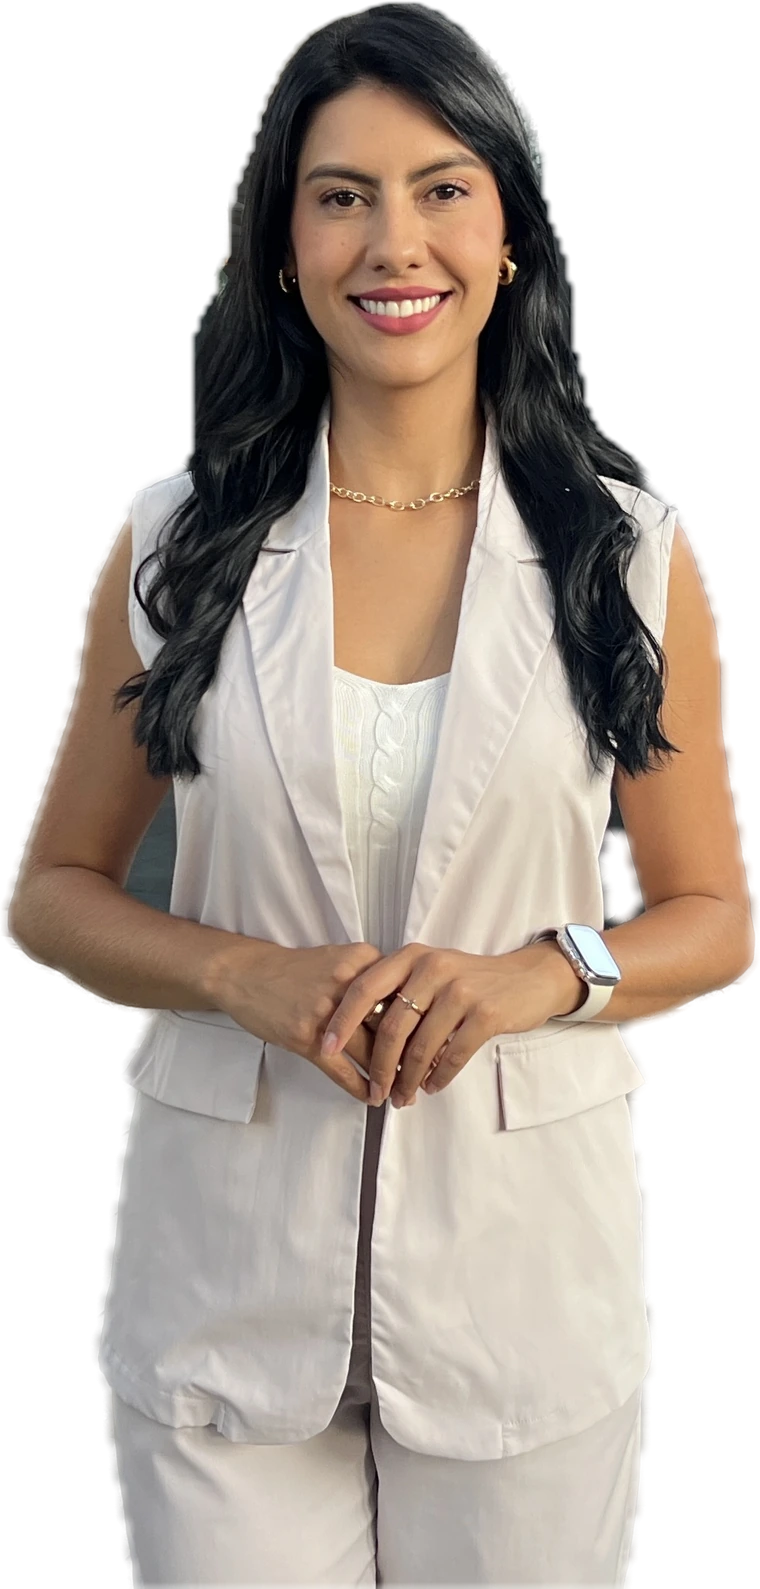
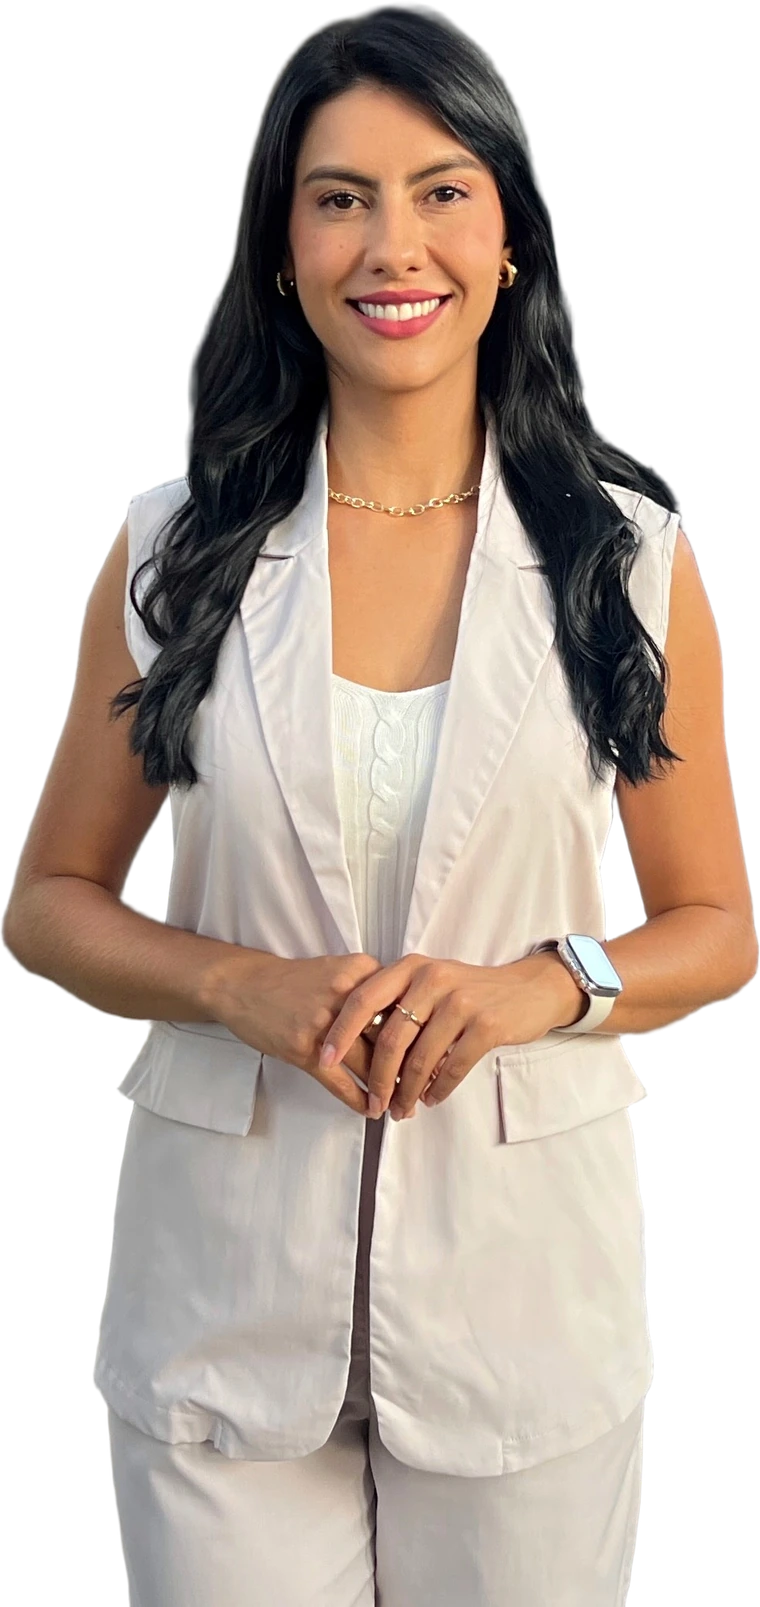
fix(hero): BiRefNet matte on the retouched photo, clean edges
Apple Vision's subject mask left a grey halo round her hair and smeared her
arm edges, and no amount of edge filtering recovered them. Compared on 1:1
crops against Vision's person segmentation and BiRefNet, BiRefNet-portrait
(MIT) gave crisp, clean edges with no halo.

- scripts/hero-matte.py runs BiRefNet-portrait (ONNX) on the photo, then on a
  crop round her so the model's 1024px input goes on her outline. It
  replaces scripts/hero-cutout.swift.
- Source is JP's retouched edit of the same shot (pixel-aligned).
- clean-hero-cutout.py uses the matte as it is; the guided filter and hair
  workarounds for the Vision mask are gone.
- Cut-out and scene rebuilt; geometry constants updated.

diff --git a/src/index.css b/src/index.css
@@ -769,7 +769,8 @@
   }
 
   /* ─── Home hero: her photo, with her name between her and the scene ───
-     Both photographic layers come from one picture (IMG_8146, 4032×2268) via
+     Both photographic layers come from one picture (the retouched edit of
+     IMG_8146, 4032×2268) via scripts/hero-matte.py (BiRefNet) and
      scripts/clean-hero-cutout.py: the scene with her removed and lightly
      blurred, and the cut-out of her. They sit in two `.feed-hero__frame`s with
      identical geometry, so every edge pixel of the cut-out lands on the
@@ -794,10 +795,10 @@
     --feed-name-size: calc(var(--feed-u) * 23);
     --feed-name-top: calc(env(safe-area-inset-top, 0px) + 4.25rem + var(--feed-u) * 0.5);
     --feed-gutter: clamp(1.5rem, 5vw, 4.5rem);
-    --feed-cut-left: 35.169%;
+    --feed-cut-left: 35.342%;
     --feed-cut-top: 8.642%;
-    --feed-cut-width: 24.578%;
-    --feed-face-x: 0.4756;
+    --feed-cut-width: 24.306%;
+    --feed-face-x: 0.4767;
     --feed-head-y: 0.0864;
     position: relative;
     width: 100%;
@@ -1406,10 +1407,10 @@
     /* Phones size the frame from her width (92% of the screen, 330px at most
        so 3x screens stay at her native pixels) but never shorter than 108% of
        the stage, so she always reaches the foot. Her head sits just under the
-       name's baseline, as in the canvas. 2.2886 = 1 / (cut width × 16:9). The
+       name's baseline, as in the canvas. 2.3142 = 1 / (cut width × 16:9). The
        top of the frame can start below the stage top; the nav bar covers it. */
     .feed-hero__frame {
-      --frame-h: max(calc(min(92cqw, 330px) * 2.2886), 108cqh);
+      --frame-h: max(calc(min(92cqw, 330px) * 2.3142), 108cqh);
       top: calc(var(--feed-name-top) + var(--feed-name-size) * 0.53 - var(--feed-head-y) * var(--frame-h));
       left: clamp(
         calc(100cqw - var(--frame-w)),

diff --git a/src/components/Hero.tsx b/src/components/Hero.tsx
@@ -244,19 +244,19 @@ const Hero = () => {
         <div className="feed-hero__frame feed-hero__frame--figure">
           <div className="feed-hero__frame-depth" data-depth="8">
             <picture className="feed-hero__figure">
-              {/* Cut from the 4032×2268 original, where she spans 991×2072 px.
+              {/* Cut from the 4032×2268 photo, where she spans 980×2072 px.
                   WebP only: AVIF compresses alpha lossily and steps the
                   outline. */}
               <source
                 type="image/webp"
-                srcSet="/uploads/gisela-cutout-520.webp 520w, /uploads/gisela-cutout-760.webp 760w, /uploads/gisela-cutout-991.webp 991w"
+                srcSet="/uploads/gisela-cutout-520.webp 520w, /uploads/gisela-cutout-760.webp 760w, /uploads/gisela-cutout-980.webp 980w"
                 sizes={HERO_FIGURE_SIZES}
               />
               <img
                 ref={figureRef}
                 src="/uploads/gisela-cutout-640.png"
                 alt={t('hero.imageAlt')}
-                width="991"
+                width="980"
                 height="2072"
                 loading="eager"
                 decoding="async"

diff --git a/scripts/clean-hero-cutout.py b/scripts/clean-hero-cutout.py
@@ -1,92 +1,36 @@
-"""Build the home hero's two aligned layers from one photo.
+"""Build the home hero's two aligned layers from one photo and its matte.
 
 Usage:
-  swift scripts/hero-cutout.swift <original.jpg> /tmp/cutout-raw.png
-  python3 scripts/clean-hero-cutout.py <original.jpg> /tmp/cutout-raw.png public/uploads
+  <venv>/bin/python scripts/hero-matte.py <photo.jpg> /tmp/hero-matte.png
+  python3 scripts/clean-hero-cutout.py <photo.jpg> /tmp/hero-matte.png public/uploads
+
+Needs Pillow, numpy and scipy.
 
 Writes the cut-out of her (gisela-cutout-*.webp/png) and the scene she stood
 in with her removed and lightly blurred (gisela-scene-*.webp), then prints
 where the cut-out sits inside the photo. The hero stacks the two in the same
 frame, so every edge pixel lands on the background it came from; the printed
-fractions are the `--feed-cut-*` values in src/index.css.
+values are the `--feed-cut-*`, `--feed-face-x` and `--feed-head-y` variables in
+src/index.css, and the cut-out size goes on the <img> in Hero.tsx.
 
-Needs Pillow (with AVIF), numpy and scipy.
-
-The raw Vision mask has three problems on the dark hero:
-1. Its outline is a smooth upscale of a low-resolution mask, so it drifts off
-   the real edge and steps along arms. A guided filter, with the photo as the
-   guide, snaps the alpha to the edges that are actually in the image.
-2. Its interior is not fully opaque, and its soft edge still carries the
-   original background's colour (a light rim against glass). The interior is
-   made solid, and every partly transparent pixel takes its colour from the
-   nearest solid pixel of her, so an edge can only ever fade, never glow or
-   darken. (Solving each edge pixel against an estimated background, the
-   previous approach, tinted the skin and left a dark rim where the estimate
-   was off.)
-3. It counts some strips of light background between hair strands as solid.
-   Near the outline, a pixel is dropped only when it sits in a dark-hair
-   neighbourhood, is lighter than that hair, and the background right beside it
-   is light too; hair highlights next to a dark background stay.
+The matte comes from BiRefNet (scripts/hero-matte.py) and is used as it is.
+The only edge treatment left is colour: a partly transparent pixel still holds
+some of the original background, so it takes the colour of the nearest solid
+pixel of her instead. Over the white name that keeps her hair dark to the tip.
 """
 
 import sys
 
 import numpy as np
 from PIL import Image
-from scipy.ndimage import distance_transform_edt, gaussian_filter, uniform_filter
+from scipy.ndimage import distance_transform_edt, gaussian_filter
 
-EDGE_BAND_PX = 34
-HAIR_LIFT = 0.06
-GUIDE_RADIUS = 5
-GUIDE_EPS = 4e-4
-REFINE_BAND_PX = 14
 WIDTHS = (520, 760)
 SCENE_WIDTHS = (1344, 2016)
 # At the photo's full width; the hero shows it at roughly half that, so this
 # reads as a gentle, lens-like softness rather than a smear.
 SCENE_BLUR_SIGMA = 14
 SCENE_HOLE_MARGIN_PX = 18
-
-
-def luminance(rgb):
-    return 0.2126 * rgb[..., 0] + 0.7152 * rgb[..., 1] + 0.0722 * rgb[..., 2]
-
-
-def box(arr, radius):
-    return uniform_filter(arr, 2 * radius + 1, mode='reflect')
-
-
-def guided_filter(guide, src, radius, eps):
-    mean_i = box(guide, radius)
-    mean_p = box(src, radius)
-    cov_ip = box(guide * src, radius) - mean_i * mean_p
-    var_i = box(guide * guide, radius) - mean_i * mean_i
-    a = cov_ip / (var_i + eps)
-    b = mean_p - a * mean_i
-    return box(a, radius) * guide + box(b, radius)
-
-
-def background_in_hair(colour, alpha, lum):
-    solid = (alpha > 0.5).astype(np.float32)
-    depth = distance_transform_edt(solid)
-    band = (depth > 0) & (depth <= EDGE_BAND_PX)
-    coverage = uniform_filter(solid, 61)
-    subject_lum = uniform_filter(lum * solid, 61) / np.maximum(coverage, 1e-4)
-    background_mask = (alpha < 0.02).astype(np.float32)
-    weight = gaussian_filter(background_mask, 24)
-    background = np.stack(
-        [gaussian_filter(colour[..., i] * background_mask, 24) for i in range(3)], -1,
-    ) / np.maximum(weight, 1e-4)[..., None]
-    background_lum = luminance(background)
-    stray = (
-        band
-        & (subject_lum < 0.30)
-        & (lum > subject_lum + HAIR_LIFT)
-        & (background_lum > 0.32)
-        & (np.abs(lum - background_lum) < 0.30)
-        & (weight > 0.02)
-    )
-    return np.clip(gaussian_filter(stray.astype(np.float32), 1.2) * 1.6, 0, 1)
 
 
 def push_pull_fill(colour, known):
@@ -122,38 +66,15 @@ def build_scene(colour, alpha, out_dir):
         image.resize(size, Image.LANCZOS).save(f'{out_dir}/gisela-scene-{target}.webp', 'WEBP', quality=84, method=6)
 
 
-def main(original_path, raw_cutout_path, out_dir):
-    colour = np.asarray(Image.open(original_path).convert('RGB'), dtype=np.float32) / 255
-    alpha = np.asarray(Image.open(raw_cutout_path).convert('RGBA'), dtype=np.float32)[..., 3] / 255
-    lum = luminance(colour)
+def main(photo_path, matte_path, out_dir):
+    colour = np.asarray(Image.open(photo_path).convert('RGB'), dtype=np.float32) / 255
+    alpha = np.asarray(Image.open(matte_path).convert('L'), dtype=np.float32) / 255
+    alpha = np.clip((alpha - 0.02) / 0.96, 0, 1)
 
-    # 1) snap the outline to the photo's own edges, only near the outline and
-    #    only along skin and clothes. Against hair the filter shreds the strands,
-    #    and step 2's colour fill already removes the halo there.
-    refined = np.clip(guided_filter(lum, alpha, GUIDE_RADIUS, GUIDE_EPS), 0, 1)
-    solid = alpha > 0.5
-    near_edge = np.minimum(distance_transform_edt(solid), distance_transform_edt(~solid)) <= REFINE_BAND_PX
-    coverage = uniform_filter(solid.astype(np.float32), 61)
-    subject_lum = uniform_filter(lum * solid, 61) / np.maximum(coverage, 1e-4)
-    light_subject = gaussian_filter((subject_lum >= 0.30).astype(np.float32), 6)
-    alpha = np.where(near_edge, refined * light_subject + alpha * (1 - light_subject), alpha)
-
-    # 3) strips of background caught inside the hair outline are repainted as
-    #    hair rather than cut out: cut out, the white name behind her shows
-    #    through them as a crack along her hair.
-    stray = background_in_hair(colour, alpha, lum)
-
-    # 2) solid interior, soft edge; the edge borrows colour from her. Around
-    #    hair the falloff is steeper, so the outermost strands read as hair over
-    #    the white letters instead of letting the letters show through.
-    hair_zone = gaussian_filter((subject_lum < 0.30).astype(np.float32), 6)
-    body_alpha = np.clip((alpha - 0.04) / 0.86, 0, 1)
-    hair_alpha = np.clip((alpha - 0.03) / 0.55, 0, 1)
-    alpha = body_alpha * (1 - hair_zone) + hair_alpha * hair_zone
-    inner = (alpha >= 0.98) & (stray < 0.05)
+    inner = alpha >= 0.98
     _, (rows, cols) = distance_transform_edt(~inner, return_indices=True)
     nearest = colour[rows, cols]
-    weight = (alpha * (1 - stray))[..., None]
+    weight = alpha[..., None]
     foreground = np.where(inner[..., None], colour, colour * weight + nearest * (1 - weight))
 
     rgba = np.dstack([foreground, alpha[..., None]])
@@ -163,6 +84,15 @@ def main(original_path, raw_cutout_path, out_dir):
     width, height = cutout.size
     photo_w, photo_h = full.size
 
+    # WebP: lossy colour, lossless alpha. AVIF compresses alpha lossily and
+    # steps the outline.
+    for target in (*WIDTHS, width):
+        image = cutout if target == width else cutout.resize((target, round(height * target / width)), Image.LANCZOS)
+        image.save(f'{out_dir}/gisela-cutout-{target}.webp', 'WEBP', quality=92, alpha_quality=100, method=6)
+    cutout.resize((640, round(height * 640 / width)), Image.LANCZOS).save(
+        f'{out_dir}/gisela-cutout-640.png', 'PNG', optimize=True,
+    )
+
     build_scene(colour, alpha, out_dir)
 
     head = alpha[y0:y0 + round(height * 0.22)] > 0.5
@@ -171,17 +101,8 @@ def main(original_path, raw_cutout_path, out_dir):
     print(f'--feed-cut-left: {x0 / photo_w * 100:.3f}%;')
     print(f'--feed-cut-top: {y0 / photo_h * 100:.3f}%;')
     print(f'--feed-cut-width: {width / photo_w * 100:.3f}%;')
-    print(f'--feed-face-x: {head_cx / photo_w:.4f};  /* face centre, fraction of photo width */')
-    print(f'--feed-head-y: {y0 / photo_h:.4f};  /* head top, fraction of photo height */')
-
-    # AVIF compresses alpha lossily and steps the outline, so the transparent
-    # cut-out ships as WebP: lossy colour, lossless alpha.
-    for target in (*WIDTHS, width):
-        image = cutout if target == width else cutout.resize((target, round(height * target / width)), Image.LANCZOS)
-        image.save(f'{out_dir}/gisela-cutout-{target}.webp', 'WEBP', quality=92, alpha_quality=100, method=6)
-    cutout.resize((640, round(height * 640 / width)), Image.LANCZOS).save(
-        f'{out_dir}/gisela-cutout-640.png', 'PNG', optimize=True,
-    )
+    print(f'--feed-face-x: {head_cx / photo_w:.4f};')
+    print(f'--feed-head-y: {y0 / photo_h:.4f};')
 
 
 if __name__ == '__main__':

diff --git a/scripts/hero-matte.py b/scripts/hero-matte.py
@@ -1,0 +1,59 @@
+"""Alpha matte of the person in the home hero photo, with BiRefNet.
+
+Usage (Python 3.12; onnxruntime has no 3.14 wheels yet):
+  python3.12 -m venv /tmp/hero-venv
+  /tmp/hero-venv/bin/pip install onnxruntime numpy pillow huggingface_hub
+  /tmp/hero-venv/bin/python scripts/hero-matte.py <photo.jpg> /tmp/hero-matte.png
+
+Then build the hero layers with scripts/clean-hero-cutout.py.
+
+BiRefNet-portrait (MIT, onnx-community/BiRefNet-portrait-ONNX, ~970 MB,
+cached by huggingface_hub) replaced Apple Vision's subject mask, which left a
+grey halo round her hair and smeared her arm edges. The model sees a 1024 px
+square, so it runs twice: once on the whole photo to find her, then on a crop
+around her, so its resolution goes on her outline instead of the scene.
+"""
+
+import sys
+
+import numpy as np
+import onnxruntime as ort
+from huggingface_hub import hf_hub_download
+from PIL import Image
+
+MODEL_REPO = 'onnx-community/BiRefNet-portrait-ONNX'
+MODEL_FILE = 'onnx/model.onnx'
+SIDE = 1024
+CROP_MARGIN = 0.18
+MEAN = np.array([0.485, 0.456, 0.406], np.float32)
+STD = np.array([0.229, 0.224, 0.225], np.float32)
+
+
+def predict(session, image):
+    width, height = image.size
+    x = np.asarray(image.resize((SIDE, SIDE), Image.BILINEAR), np.float32) / 255
+    x = ((x - MEAN) / STD).transpose(2, 0, 1)[None]
+    logits = session.run(None, {session.get_inputs()[0].name: x})[0][0, 0]
+    matte = Image.fromarray((255 / (1 + np.exp(-logits))).astype(np.uint8))
+    return np.asarray(matte.resize((width, height), Image.LANCZOS), np.float32) / 255
+
+
+def main(photo_path, out_path):
+    session = ort.InferenceSession(hf_hub_download(MODEL_REPO, MODEL_FILE), providers=['CPUExecutionProvider'])
+    photo = Image.open(photo_path).convert('RGB')
+    width, height = photo.size
+
+    rough = predict(session, photo)
+    ys, xs = np.nonzero(rough > 0.5)
+    margin = round((xs.max() - xs.min()) * CROP_MARGIN)
+    x0, x1 = max(0, xs.min() - margin), min(width, xs.max() + margin)
+    y0, y1 = max(0, ys.min() - margin), min(height, ys.max() + margin)
+
+    matte = np.zeros((height, width), np.float32)
+    matte[y0:y1, x0:x1] = predict(session, photo.crop((x0, y0, x1, y1)))
+    Image.fromarray((matte * 255 + 0.5).astype(np.uint8)).save(out_path)
+    print(f'matte {width}x{height}, refined on ({x0}, {y0})–({x1}, {y1})')
+
+
+if __name__ == '__main__':
+    main(*sys.argv[1:3])

diff --git a/changes/2026-10-13-feed-hero-cutout.md b/changes/2026-10-13-feed-hero-cutout.md
@@ -51,7 +51,7 @@ styled through `#home .feed-hero__title` because the global heading rule is
 - Source: the original iPhone 13 Pro Max photo, 4032×2268
   (`~/Downloads/IMG_8146.JPG` on JP's machine). She spans **980×2070 px** in
   it; that is the ceiling for this photo.
-- `scripts/hero-cutout.swift` (Apple Vision subject mask), then
+- (superseded by §11) `scripts/hero-cutout.swift` (Apple Vision subject mask), then
   `scripts/clean-hero-cutout.py`, which decontaminates the soft edge against a
   local background estimate (no glass halo on her hair) and drops strips of
   light background the mask counted as hair. Output: AVIF (q72, visually
@@ -234,3 +234,28 @@ filtering fixes that.
 
 Known trade-off: on short laptop screens (≤ ~800 px tall) the phone overlaps
 the last letter of the name.
+
+## 11. New source photo and BiRefNet matte
+
+JP: "the edge detection tech you are using is faulty", and supplied the
+retouched edit of the same shot (`~/Downloads/Photos/E3AF5948-…(2)-EDIT.jpg`,
+4032×2268, pixel-aligned with IMG_8146: smoother skin, slightly warmer).
+
+Four mattes were compared on 1:1 crops of hair and both arms over a flat
+colour: Apple Vision's subject mask (the one used so far: grey halo round the
+hair, smeared arm edges), Vision's person segmentation (.accurate; only
+2016×1512, glow round the hair, a dark blob on one arm), and BiRefNet-portrait
+on a crop round her, whole and tiled. BiRefNet whole-crop was clearly best:
+crisp, clean edges with no halo.
+
+- `scripts/hero-matte.py` (needs a Python 3.12 venv with onnxruntime; see its
+  docstring) runs `onnx-community/BiRefNet-portrait-ONNX` (MIT, ~970 MB, cached
+  by huggingface_hub) on the whole photo to find her, then on a crop round her.
+  It replaces `scripts/hero-cutout.swift`, which is deleted.
+- `scripts/clean-hero-cutout.py <photo> <matte> public/uploads` now uses the
+  matte as it is. The guided filter, the hair-gap repainting and the steeper
+  hair falloff were workarounds for the Vision mask and are gone; the one edge
+  treatment left is taking edge colour from the nearest solid pixel of her.
+- New geometry: cut-out 980×2072 at (1425, 196) → `--feed-cut-left: 35.342%`,
+  `--feed-cut-width: 24.306%`, `--feed-face-x: 0.4767`; the phone frame factor
+  is 2.3142.
